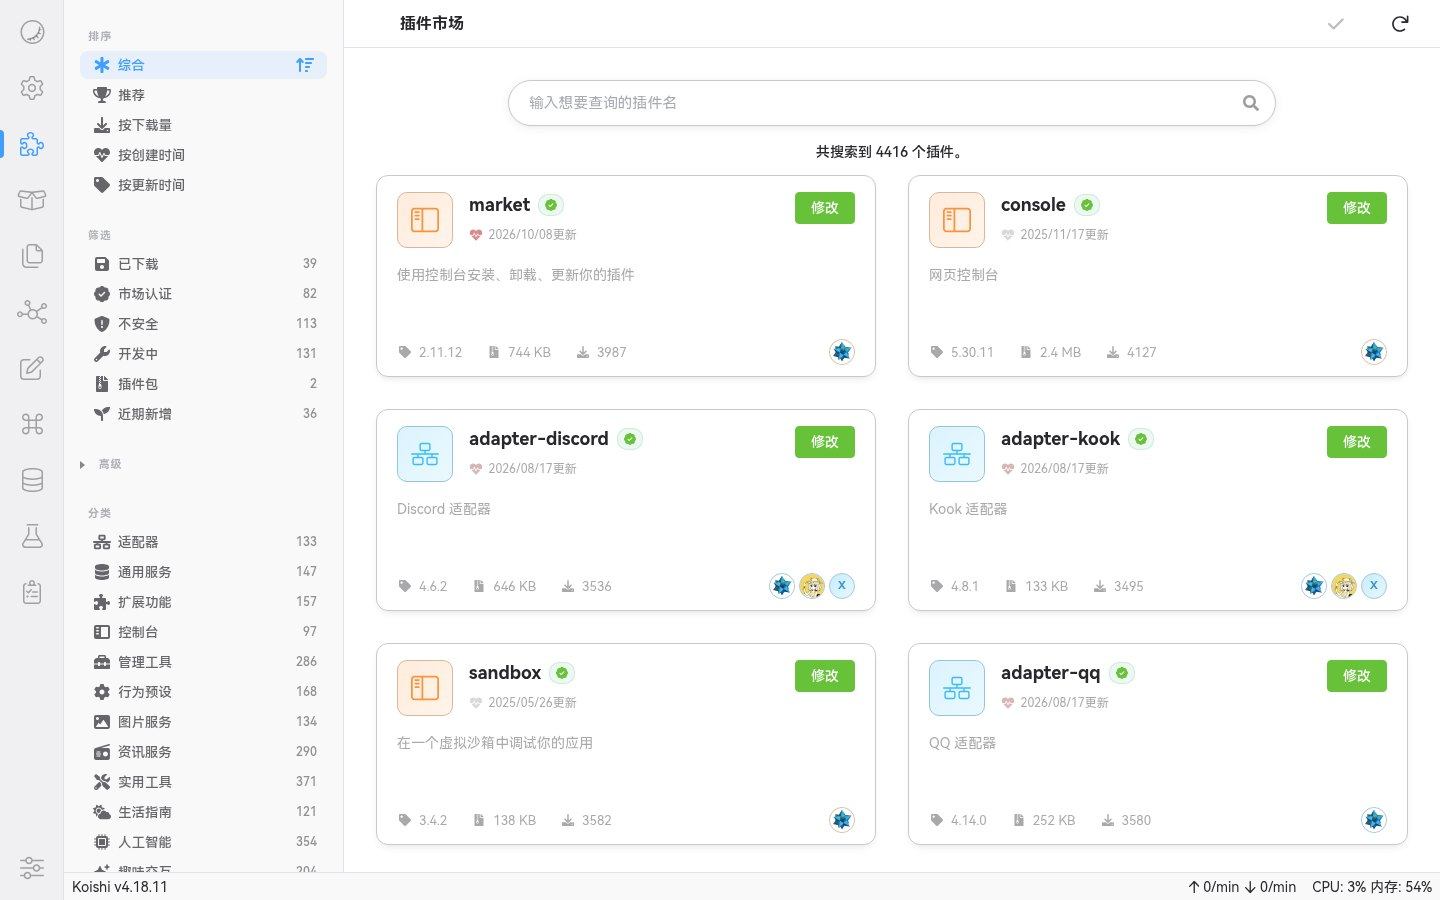
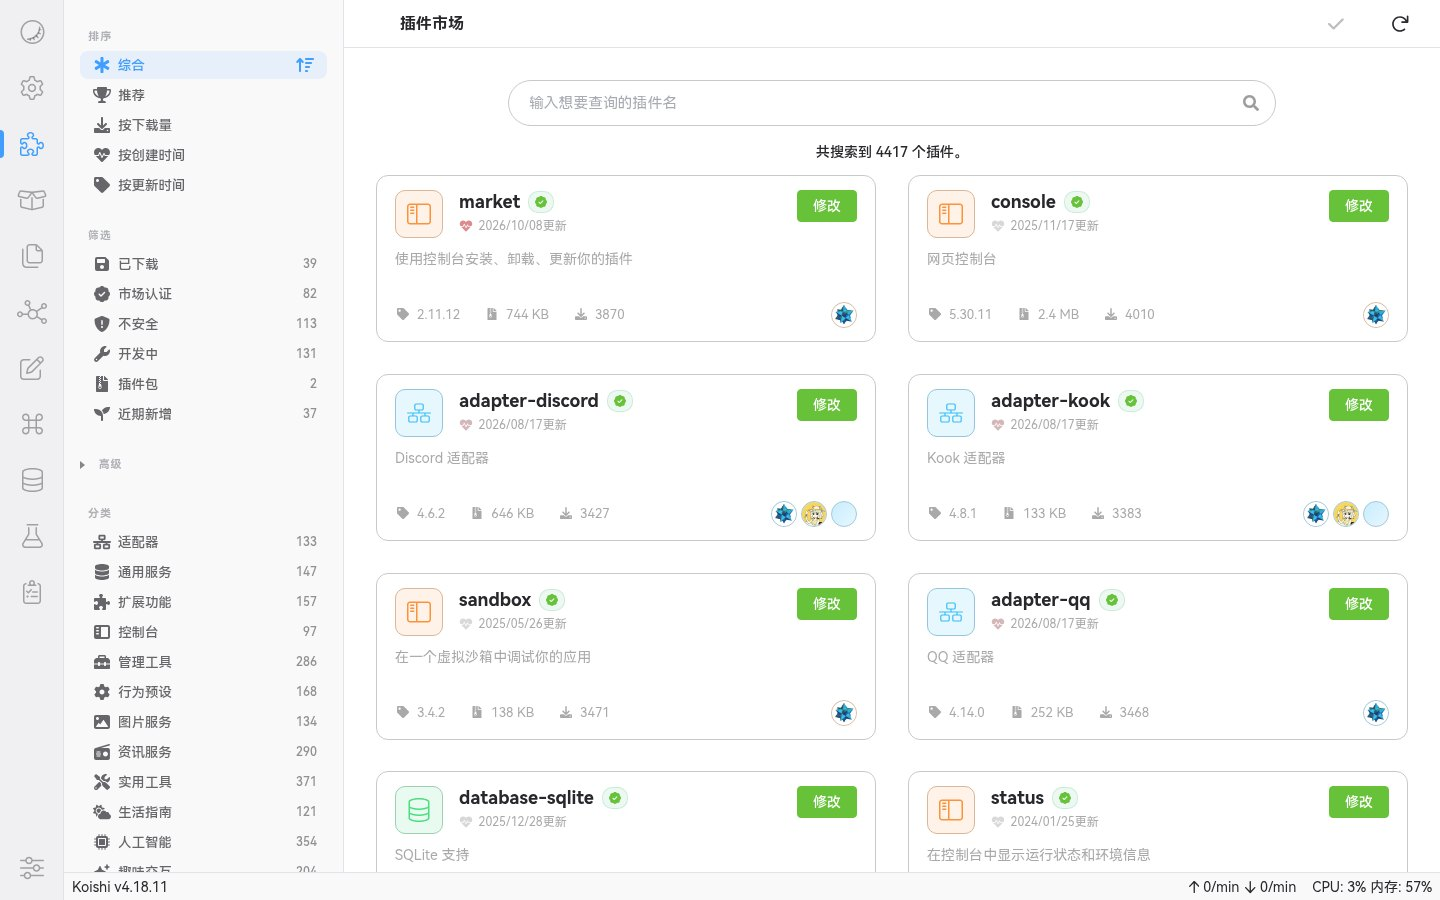
style: 收紧插件市场卡片并去掉阴影，弹窗按钮统一靠右，重截 README 截图

diff --git a/client/market/components/package.vue b/client/market/components/package.vue
@@ -1,5 +1,5 @@
 <template>
-  <a :class="['market-package flex flex-col gap-3', 'cat-' + resolveCategory(data.category), { 'bundle-card': bundlePackage }]" target="_blank" :href="homepage">
+  <a :class="['market-package flex flex-col', 'cat-' + resolveCategory(data.category), { 'bundle-card': bundlePackage }]" target="_blank" :href="homepage">
     <div class="header flex flex-row gap-4">
       <div :class="['left', 'shrink-0', 'flex', 'flex-row', 'justify-center', 'items-center', 'cat-' + resolveCategory(data.category)]">
         <market-icon :name="'outline:' + resolveCategory(data.category)"></market-icon>
@@ -351,17 +351,21 @@ onUnmounted(() => {
 .market-package {
   width: 100%;
   max-width: 540px;
-  height: calc(12.5rem + 2px);
+  // The height comes from the content; keep the grid from stretching it when there are only a few results.
+  align-self: start;
   margin: 0;
-  padding: 1rem 1.25rem;
+  padding: 0.875rem 1.125rem;
+  gap: 0.625rem;
   box-sizing: border-box;
   position: relative;
   contain: layout paint style;
-  contain-intrinsic-size: 12.5rem;
+  contain-intrinsic-size: 10.5rem;
   border-radius: 12px;
   background-color: var(--k-color-card, var(--k-card-bg));
   border: 1px solid var(--k-color-border);
-  transition: border-color 0.18s ease, box-shadow 0.18s ease, background-color 0.18s ease;
+  // k-card adds a drop shadow by default; the border is enough to separate cards.
+  box-shadow: none;
+  transition: border-color 0.18s ease, background-color 0.18s ease;
 
   &.cat-adapter    { --c: #38bdf8; }
   &.cat-general    { --c: #4ade80; }
@@ -380,7 +384,6 @@ onUnmounted(() => {
   &.cat-other      { --c: #64748b; }
 
   &:hover {
-    box-shadow: 0 4px 12px rgba(0, 0, 0, 0.06);
     border-color: var(--k-color-primary);
   }
 
@@ -397,21 +400,18 @@ onUnmounted(() => {
     position: relative;
 
     .left {
-      width: 3.5rem;
-      height: 3.5rem;
+      width: 3rem;
+      height: 3rem;
       border-radius: 10px;
       border: 1px solid transparent;
       box-sizing: border-box;
       transition: transform 0.3s ease, box-shadow 0.3s ease, border-color 0.3s ease;
 
       svg {
-        height: 1.75rem;
+        height: 1.5rem;
       }
 
-      background: linear-gradient(135deg,
-        color-mix(in srgb, var(--c) 18%, var(--k-card-bg)),
-        color-mix(in srgb, var(--c) 10%, var(--k-card-bg))
-      );
+      background: color-mix(in srgb, var(--c) 12%, var(--k-card-bg));
       border-color: color-mix(in srgb, var(--c) 35%, var(--k-color-border));
       svg { color: var(--c); }
     }
@@ -492,7 +492,6 @@ onUnmounted(() => {
       align-items: center;
       gap: 0 0.35rem;
       width: fit-content;
-      margin-top: 4px;
       max-width: 100%;
       font-size: 12px;
       line-height: 1;
@@ -509,17 +508,19 @@ onUnmounted(() => {
     }
   }
 
+  // Always reserve two lines so every card in the grid has the same height.
   .desc {
-    margin: 4px 0 0;
+    margin: 0;
     font-size: 14px;
-    flex: 1 1 auto;
+    flex: 0 0 auto;
     line-height: 1.6;
+    height: 3.2em;
     color: var(--k-text-light, #666);
     overflow: hidden;
     word-break: break-word;
     text-overflow: ellipsis;
     display: -webkit-box;
-    -webkit-line-clamp: 3;
+    -webkit-line-clamp: 2;
     -webkit-box-orient: vertical;
   }
 
@@ -528,7 +529,6 @@ onUnmounted(() => {
     gap: 0.5rem;
     align-items: center;
     height: 1.5rem;
-    margin-bottom: -0.25rem;
     cursor: default;
     font-size: 13px;
     color: var(--k-text-light, #888);
@@ -607,37 +607,13 @@ onUnmounted(() => {
 .market-package.bundle-card {
   --bundle-color: #8b5cf6;
   border-color: color-mix(in srgb, var(--bundle-color) 32%, var(--k-color-border));
-  background:
-    linear-gradient(90deg, color-mix(in srgb, var(--bundle-color) 86%, transparent), color-mix(in srgb, var(--bundle-color) 26%, transparent) 54%, transparent) top left / 100% 3px no-repeat,
-    linear-gradient(135deg, color-mix(in srgb, var(--bundle-color) 10%, transparent) 0%, transparent 55%),
-    var(--k-color-card, var(--k-card-bg));
-  box-shadow: 0 2px 12px color-mix(in srgb, var(--bundle-color) 12%, transparent), 0 1px 3px rgba(0, 0, 0, 0.04);
 
   &:hover {
     border-color: var(--bundle-color);
-    box-shadow:
-      0 16px 32px color-mix(in srgb, var(--bundle-color) 22%, transparent),
-      0 4px 12px rgba(0, 0, 0, 0.08),
-      inset 0 1px 0 rgb(255 255 255 / 8%);
-  }
-
-  // accent stripes top-left to suggest a "wrapped package"
-  &::before {
-    content: '';
-    position: absolute;
-    top: 0;
-    left: 0;
-    width: 100%;
-    height: 3px;
-    background: linear-gradient(90deg, var(--bundle-color), color-mix(in srgb, var(--bundle-color) 50%, transparent) 60%, transparent);
-    border-radius: 12px 12px 0 0;
-    pointer-events: none;
   }
 
   .header .left {
-    background: linear-gradient(135deg,
-      color-mix(in srgb, var(--bundle-color) 26%, var(--k-card-bg)),
-      color-mix(in srgb, var(--bundle-color) 14%, var(--k-card-bg)));
+    background: color-mix(in srgb, var(--bundle-color) 14%, var(--k-card-bg));
     border-color: color-mix(in srgb, var(--bundle-color) 38%, var(--k-color-border));
     svg { color: var(--bundle-color); }
   }
@@ -650,8 +626,6 @@ onUnmounted(() => {
 
 @media (max-width: 420px) {
   .market-package {
-    height: auto;
-    min-height: 11rem;
     padding: 0.82rem 0.9rem;
 
     .header {
@@ -672,12 +646,15 @@ onUnmounted(() => {
     .footer {
       flex-wrap: wrap;
       height: auto;
-      margin-bottom: 0;
       gap: 0.28rem 0.5rem;
 
       .spacer,
       .long-spacer {
         display: none;
+      }
+
+      .avatars {
+        margin-left: auto;
       }
     }
   }

diff --git a/client/market/components/list.vue b/client/market/components/list.vue
@@ -77,7 +77,7 @@ const sentinel = ref<HTMLElement>()
 const list = ref<HTMLElement>()
 const visible = ref(batchSize.value)
 const columns = ref(1)
-const rowHeight = ref(224)
+const rowHeight = ref(186)
 const startIndex = ref(0)
 const endIndex = ref(batchSize.value)
 const topSpacer = ref(0)
@@ -236,7 +236,7 @@ function measureLayout() {
   const width = list.value.clientWidth
   const nextColumns = Math.max(1, Math.floor((width + gap) / (336 + gap)))
   const card = list.value.querySelector<HTMLElement>('.market-package')
-  const nextRowHeight = (card?.offsetHeight || 202) + gap
+  const nextRowHeight = (card?.offsetHeight || 170) + gap
   const nextListTop = getListTop()
   if (columns.value !== nextColumns) columns.value = nextColumns
   if (rowHeight.value !== nextRowHeight) rowHeight.value = nextRowHeight

diff --git a/client/components/environment-versions.vue b/client/components/environment-versions.vue
@@ -86,7 +86,7 @@
     </template>
 
     <template #footer>
-      <el-button class="environment-refresh" :loading="loading" @click="loadSnapshots(true)">{{ t('environment.refresh') }}</el-button>
+      <el-button :loading="loading" @click="loadSnapshots(true)">{{ t('environment.refresh') }}</el-button>
       <el-button @click="showEnvironmentVersions = false">{{ t('common.actions.close') }}</el-button>
       <el-button v-if="preview && !preview.snapshot.current" type="primary" :disabled="!canApply" @click="confirmVisible = true">
         {{ t('environment.restore') }}
@@ -487,9 +487,6 @@ function reasonText(reason: NonNullable<EnvironmentSnapshotChange['reason']>) {
     line-height: 1.6;
   }
 
-  .environment-refresh {
-    margin-right: auto;
-  }
 }
 
 .environment-confirm-dialog p {

diff --git a/client/components/install-history.vue b/client/components/install-history.vue
@@ -82,7 +82,7 @@
     </div>
 
     <template #footer>
-      <el-button class="history-refresh" :loading="loading" @click="loadHistory(true)">{{ t('operations.history.refresh') }}</el-button>
+      <el-button :loading="loading" @click="loadHistory(true)">{{ t('operations.history.refresh') }}</el-button>
       <el-button @click="showInstallHistory = false">{{ t('operations.history.close') }}</el-button>
     </template>
   </el-dialog>
@@ -465,9 +465,6 @@ function formatSize(value: number) {
     font-size: 0.8125rem;
   }
 
-  .history-refresh {
-    margin-right: auto;
-  }
 }
 
 @media (max-width: 768px) {

diff --git a/client/components/manual.vue b/client/components/manual.vue
@@ -64,7 +64,7 @@
 
     <template #footer>
       <template v-if="mode === 'local'">
-        <el-button v-if="preview || uploadError" class="manual-another" :disabled="busy" @click="reset()">
+        <el-button v-if="preview || uploadError" :disabled="busy" @click="reset()">
           {{ t('operations.manual.chooseAnother') }}
         </el-button>
         <el-button :disabled="committing" @click="showManual = false">
@@ -231,7 +231,4 @@ function resetRegistry() {
   }
 }
 
-.manual-another {
-  margin-right: auto;
-}
 </style>

diff --git a/client/components/market.vue b/client/components/market.vue
@@ -542,7 +542,6 @@ function formatNumber(value?: number) {
 
 .search-box {
   background-color: var(--k-card-bg);
-  box-shadow: 0 2px 12px rgba(0, 0, 0, 0.06), 0 1px 3px rgba(0, 0, 0, 0.04);
   transition: var(--color-transition);
 }
 
